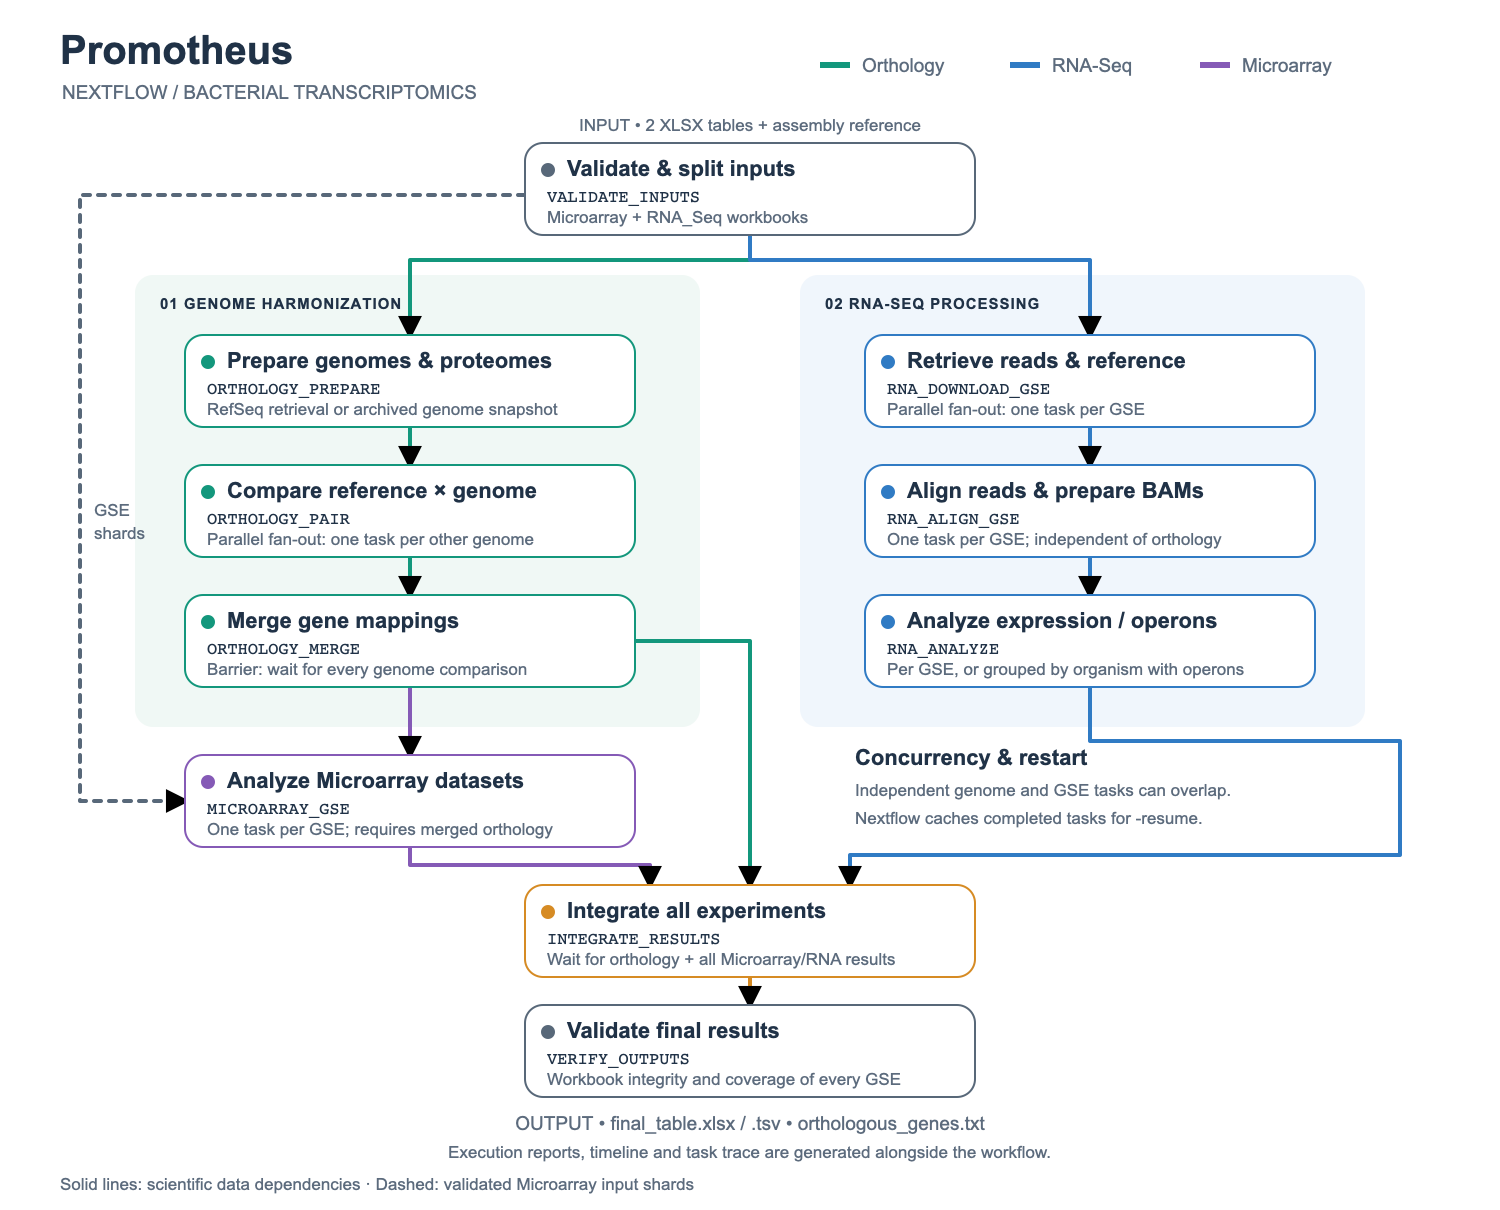
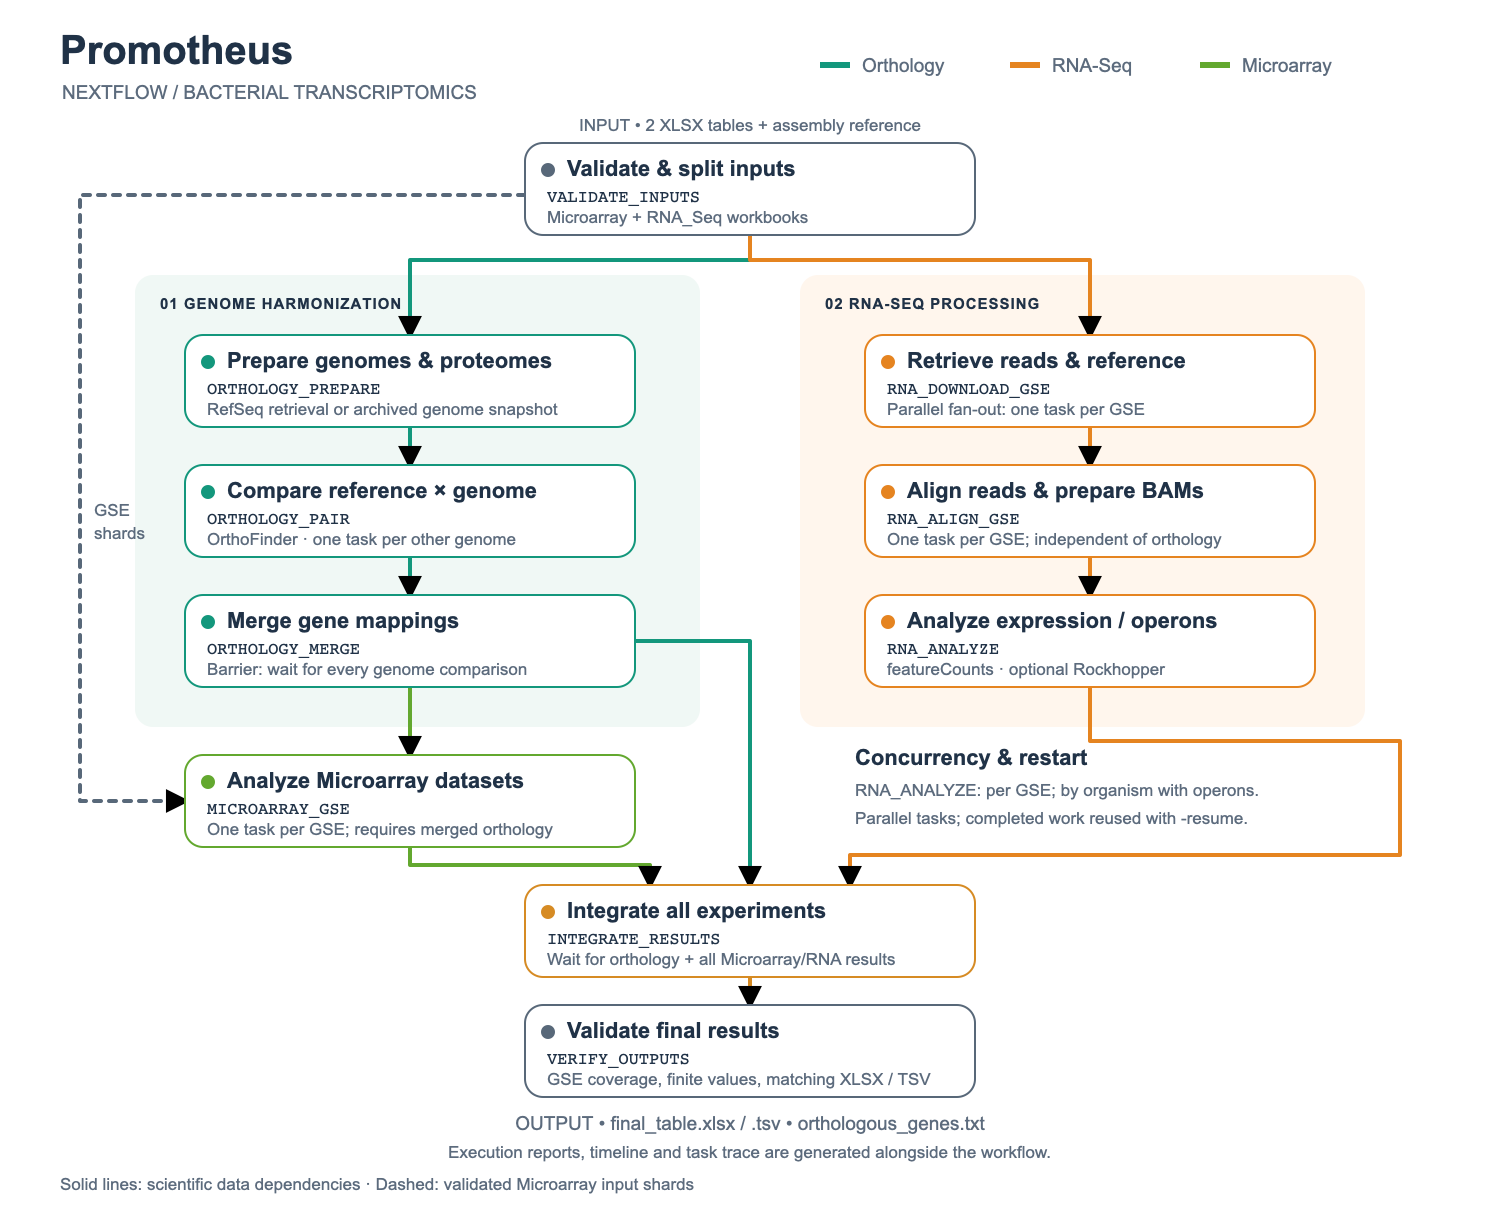
Fix Rockhopper replicate grouping and document Nextflow workflow

diff --git a/README.md b/README.md
@@ -2,6 +2,12 @@
 
 Promotheus retrieves and integrates bacterial Microarray and RNA-Seq data from NCBI to identify promoters with stable or variable expression. It harmonizes gene identifiers through orthology and produces expression, percentile, variability and promoter-sequence tables.
 
+## Pipeline overview
+
+![Promotheus Nextflow workflow: parallel orthology and RNA-Seq branches, Microarray analysis, integration and validation](docs/images/promotheus-nextflow-dag.svg)
+
+Colored routes follow the Microarray and RNA-Seq overview on `main`; boxes show the actual Nextflow processes. Genome comparisons run in parallel, as do GSE download/alignment tasks. Optional Rockhopper analysis runs inside `RNA_ANALYZE`, grouped by organism when enabled. [Full-size DAG](docs/images/promotheus-nextflow-dag.svg) · [Workflow details](docs/MODULAR_NEXTFLOW.md).
+
 ## Run with Nextflow
 
 Requirements: **Nextflow ≥23.10, Java ≥17, Python 3 and Docker running**. The workflow launches Docker automatically and mounts the updated repository scripts into a pinned `linux/amd64` image; ARM machines use emulation.
@@ -60,6 +66,8 @@ The full Docker-backed Nextflow run on **3 November 2026** completed **136 tasks
 The balanced profile reduced the observed download-to-alignment wait from 2 h 13 min to 1.1 s. The preceding run was partially cached, so these runs do **not** establish an overall speedup. See [performance evidence](docs/PERFORMANCE.md), the [per-task report](docs/TASK_PERFORMANCE.md), and [orthology reproducibility](docs/ORTHOLOGY_REPRODUCIBILITY.md). Formal biological equivalence with the original monolithic workflow remains untested.
 
 A fresh two-comparison orthology benchmark on **4 November** took **8 min 46 s serially versus 4 min 58 s in parallel** (1.77×), with byte-identical results. This measures the orthology branch only; see the [method and results](docs/PERFORMANCE.md#controlled-comparison-4-november-2026).
+
+A real standalone Rockhopper test on **10 November 2026** passed on GSE116952 (four paired-end samples, two replicate groups) in **13 min 9 s**, producing **490 predicted multi-gene operons**. The replicate-group mapping was corrected and the regression suite passed. This is a single-GSE component test, not a full Nextflow benchmark or biological validation; see the [operon test report](docs/OPERON_VALIDATION.md).
 
 ## Test with the bundled toy dataset
 

diff --git a/docs/OPERON_VALIDATION.md b/docs/OPERON_VALIDATION.md
@@ -1,0 +1,18 @@
+# Real operon detection test — 10 November 2026
+
+The updated `Operons_detection` function completed successfully on **GSE116952**, *Lactococcus lactis*, using four paired-end runs: SRR7511294–SRR7511297. Runs 1294/1295 form group 1; runs 1296/1297 form group 2.
+
+| Measurement | Result |
+| --- | --- |
+| Elapsed time for detection and output checks | 789.0594 seconds (13 min 9 s) |
+| Predicted multi-gene operons | 490 |
+| Gene pairs predicted in the same operon | 904 |
+| Resources | Docker limit: 2 CPUs, 8,000 MB; Java heap: 6,000 MB |
+| Image | `ste40/promotheus@sha256:a7c5196b4ebf6f93ef8a4ff2698481d24e3f63306c9eaccd413bce3c48eebec7` |
+| Platform | linux/amd64 under emulation on an ARM host |
+
+The test reused downloaded reads and reference artifacts, but Rockhopper performed its own read alignment. Timing excludes original data downloads, Nextflow scheduling and the rest of the pipeline. The nonempty operon table, required columns and organism-level mode file were checked. Local evidence is retained in `real-runs/2026-11-10-operons/` outside the Git repository.
+
+The first attempt exposed incorrect replicate grouping and was stopped. The corrected run explicitly passed two comma-separated replicate groups to Rockhopper. The adapter now matches reads to accession IDs, validates read pairing and group metadata, checks external command exit codes, and fails if operon detection is incomplete. Tests cover paired/single-end reads, noncontiguous groups, missing mates and invalid metadata; the full local regression suite passed.
+
+Only one GSE was available, so the requested consensus threshold of 3 was reduced to 1 by the existing implementation. **Consensus across multiple GSEs, end-to-end Nextflow execution with operons enabled, and biological accuracy against a curated operon reference remain unvalidated.** These predictions are not a biological ground truth.
